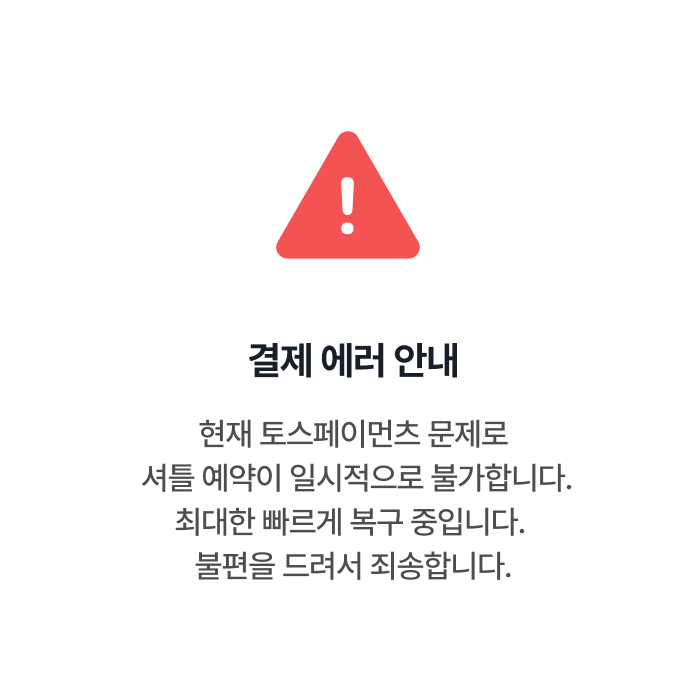
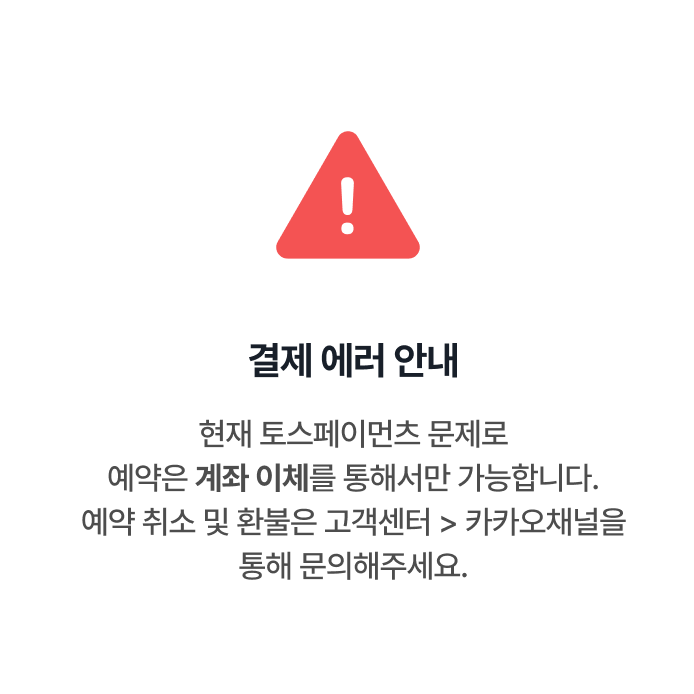
hotfix: 토스페이먼츠 결제 오류 임시 대응 UI 변경

Changed region(s): [[0.121, 0.6657, 0.9078, 0.8473]]

diff --git a/src/app/event/[eventId]/dailyevent/[dailyEventId]/route/[shuttleRouteId]/payment/components/Content.tsx b/src/app/event/[eventId]/dailyevent/[dailyEventId]/route/[shuttleRouteId]/payment/components/Content.tsx
@@ -241,7 +241,7 @@ const Content = ({
     <main className="pb-100">
       {/* {referralCode && <ReferralDiscountNotice />} */}
       <div className="flex h-[38px] w-full items-center justify-center bg-basic-red-100 text-14 font-600 text-basic-red-400">
-        현재 일시적인 오류로 결제가 불가합니다.
+        현재 결제시스템 에러로 예약은 계좌이체로만 가능합니다.
       </div>
       {isHandyParty && (
         <div className="bg-basic-blue-100 py-8 text-center text-12 font-500 leading-[160%] text-basic-blue-400">

diff --git a/src/app/event/[eventId]/page.tsx b/src/app/event/[eventId]/page.tsx
@@ -38,9 +38,6 @@ const Page = async ({
     <>
       <main>
         {/* {hasReferralCode && <ReferralDiscountNotice />} */}
-        <div className="flex h-[38px] w-full items-center justify-center bg-basic-red-100 text-14 font-600 text-basic-red-400">
-          현재 일시적인 오류로 결제가 불가합니다.
-        </div>
         <EventImage
           eventImageUrl={event.eventImageUrl}
           eventName={event.eventName}
